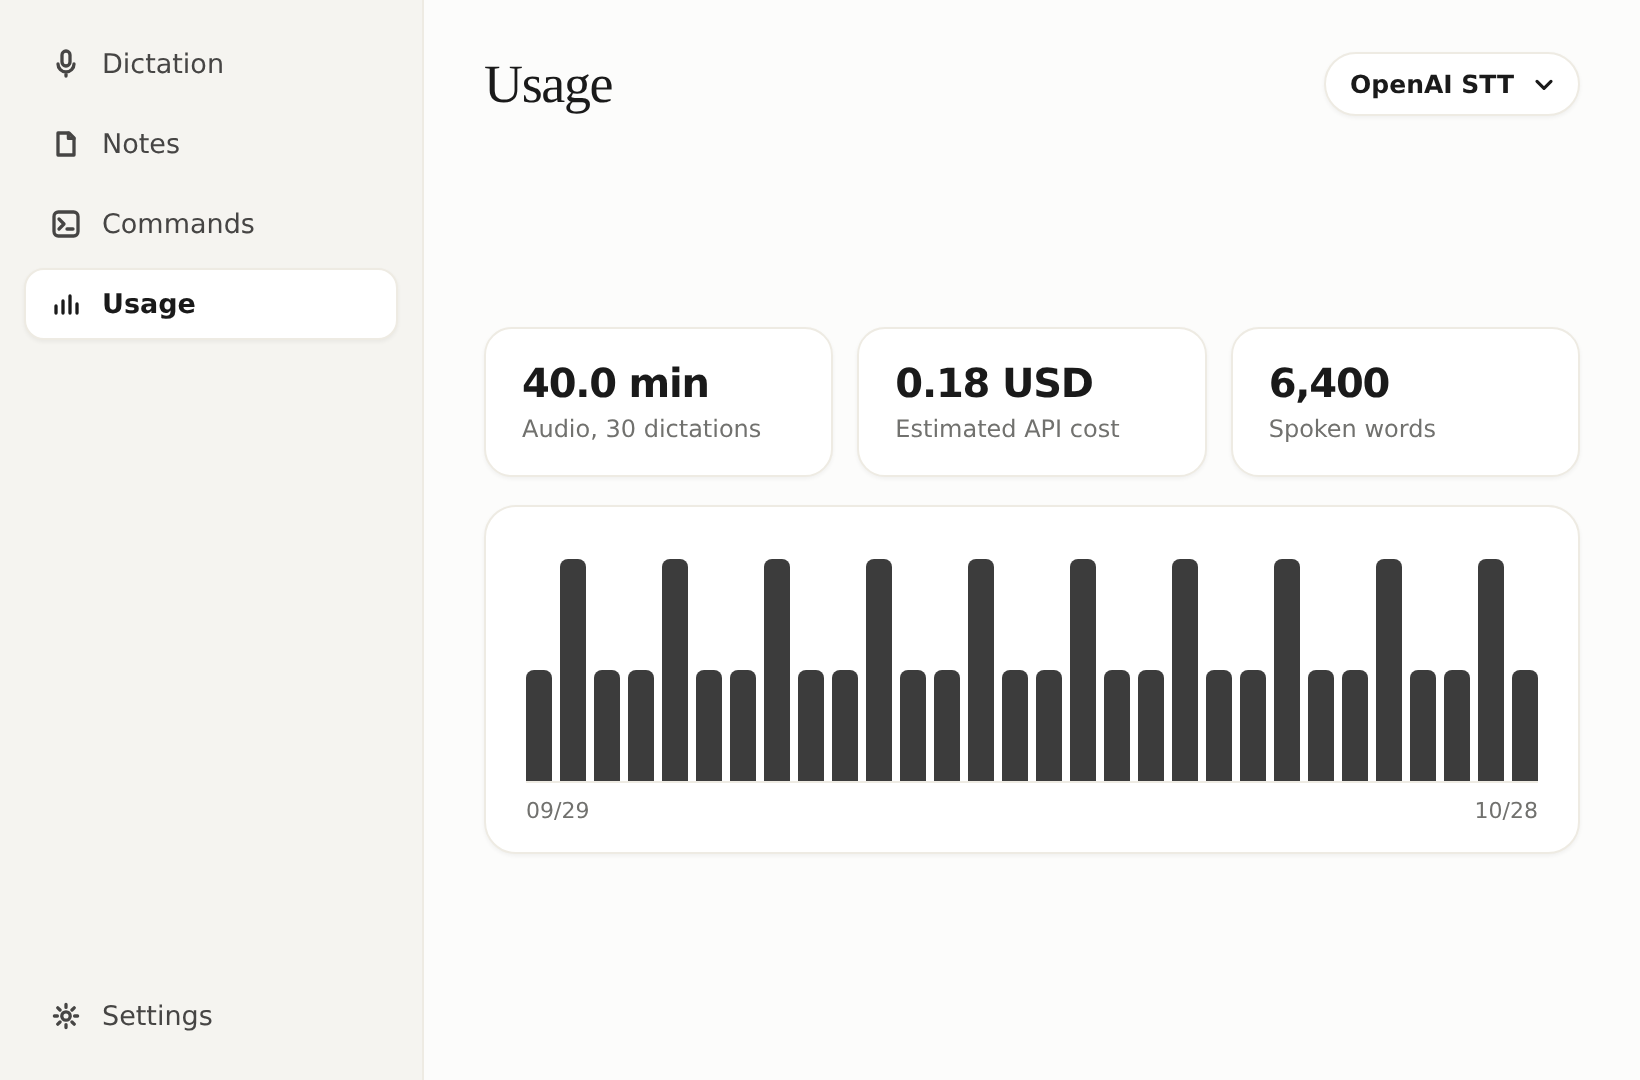
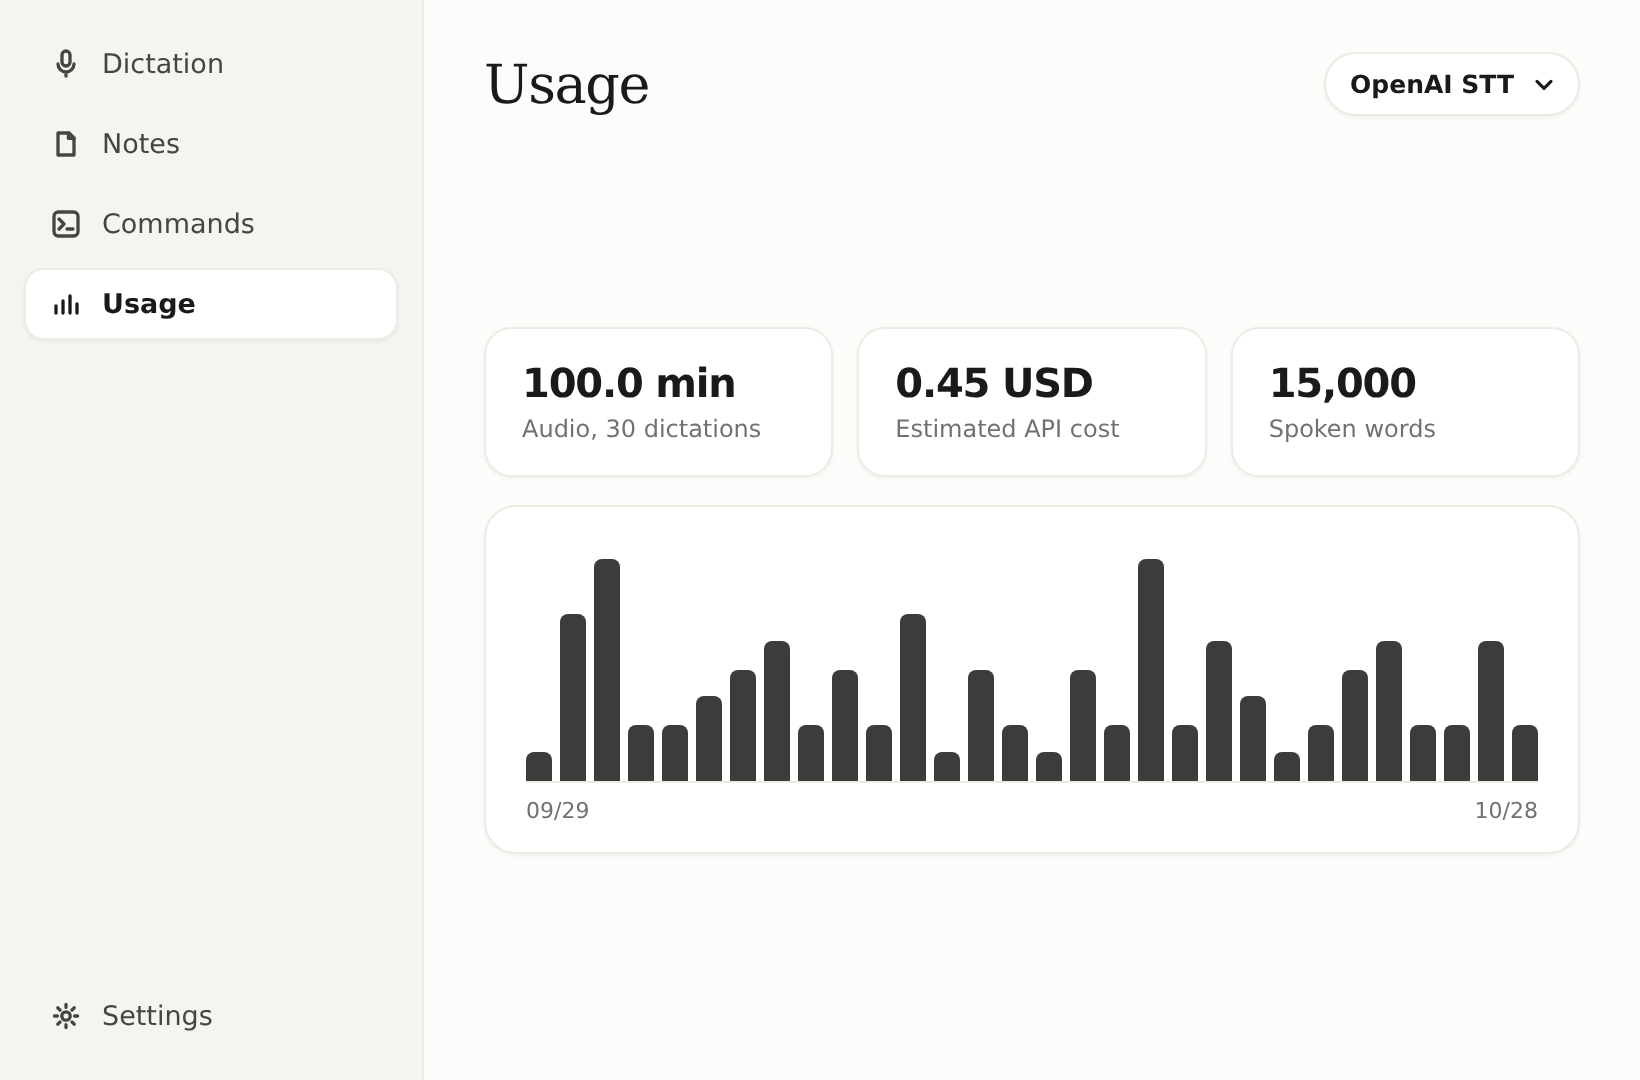
docs: crop note improvement to its panel and vary the usage chart

diff --git a/README.md b/README.md
@@ -46,11 +46,13 @@ The new **Commands** tab lets you create, search and manage your own Windows scr
 
 ## New: Note Improvement — Improve with AI
 
+Open **Improve** in a note. Pick **Polish**, **Shorten**, or **As a list**, or type a follow-up of up to ten words.
+
 <p align="center">
-  <img src="docs/note-improvement.png" alt="OpenFlow Note Improvement: the full note open, with Improve with AI suggestions under Copy and Save." width="100%">
+  <img src="docs/note-improvement.png" alt="The Note Improvement panel: Polish, Shorten, and As a list, with a follow-up field." width="560">
 </p>
 
-**Note Improvement** improves the note you already have open with AI. Open **Improve** in the note rail and the panel slides up from the bottom, with **Copy** and **Save** staying above it. Pick a short suggestion such as **Polish**, **Shorten**, or **As a list**, or type your own follow-up (up to ten words). While new suggestions are generated, each chip shows a small spinning circle. The note uses the same OpenAI API key as dictation and is sent only when you ask. The improved wording stays in the same note, and you can undo it.
+The panel slides up under **Copy** and **Save**. **Note Improvement** improves the note you already have open with AI. While new suggestions are generated, each chip shows a small spinning circle. The note uses the same OpenAI API key as dictation and is sent only when you ask. The improved wording stays in the same note, and you can undo it.
 
 ---
 
